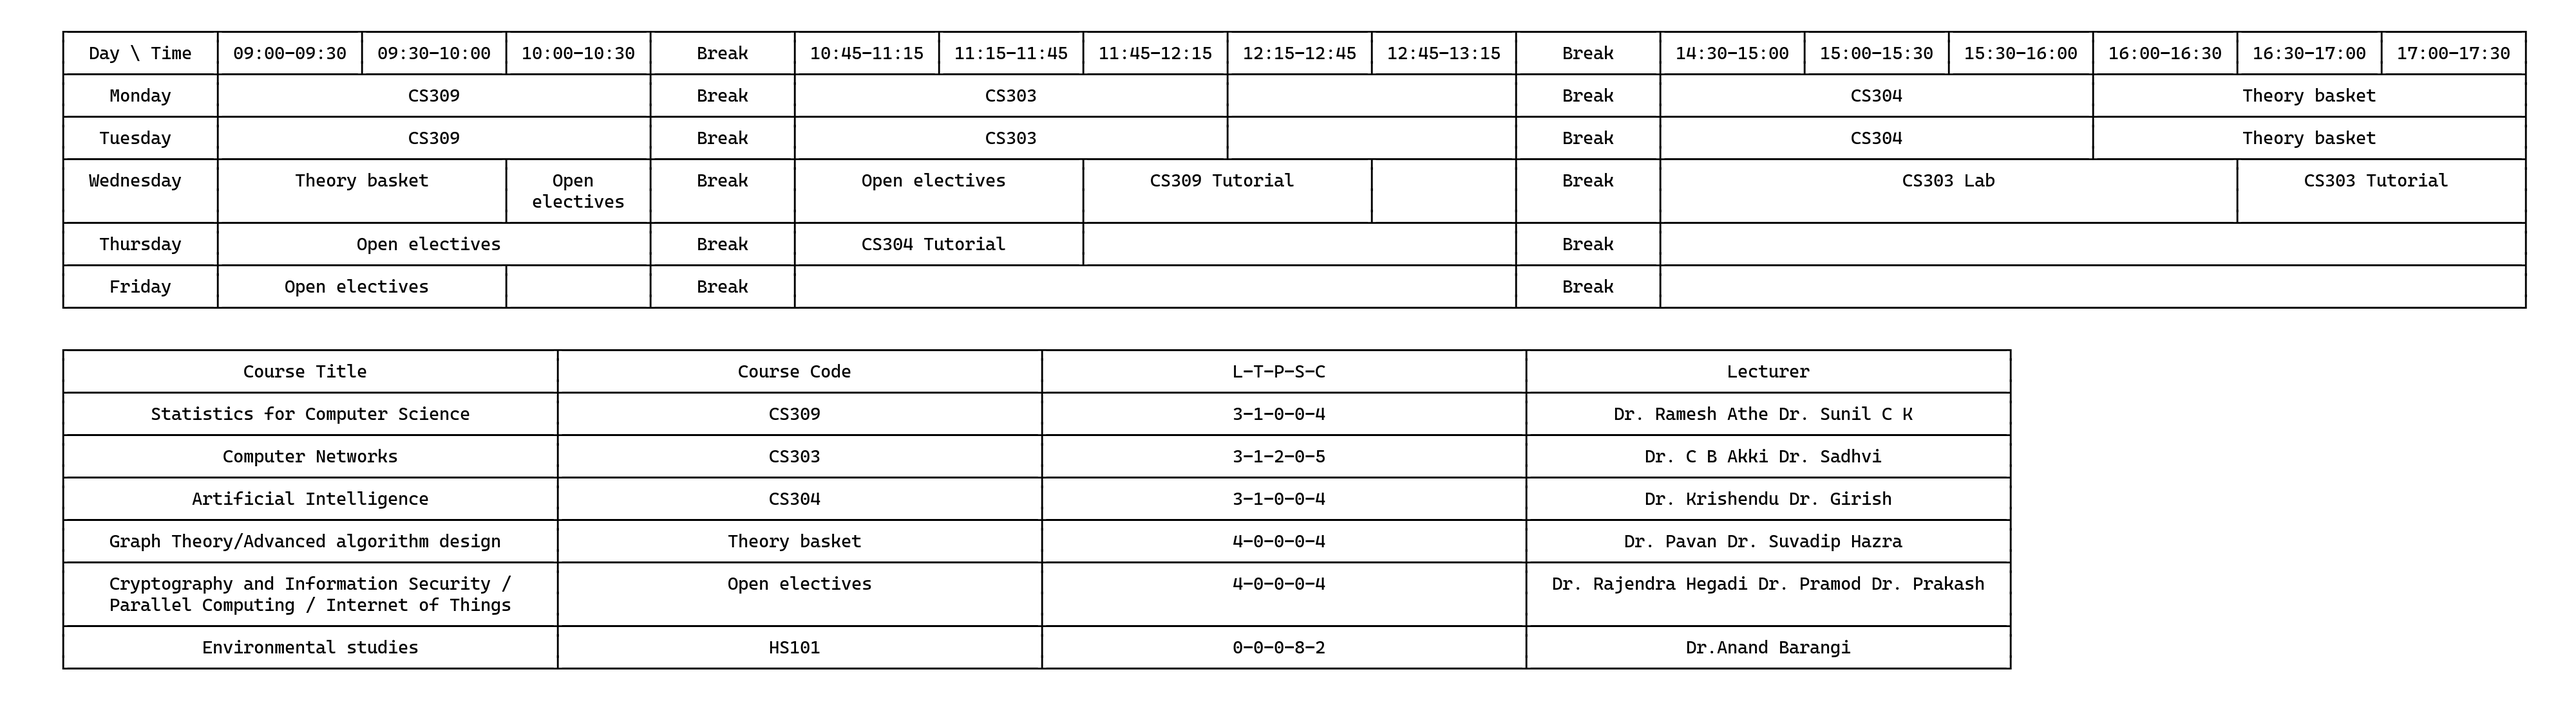
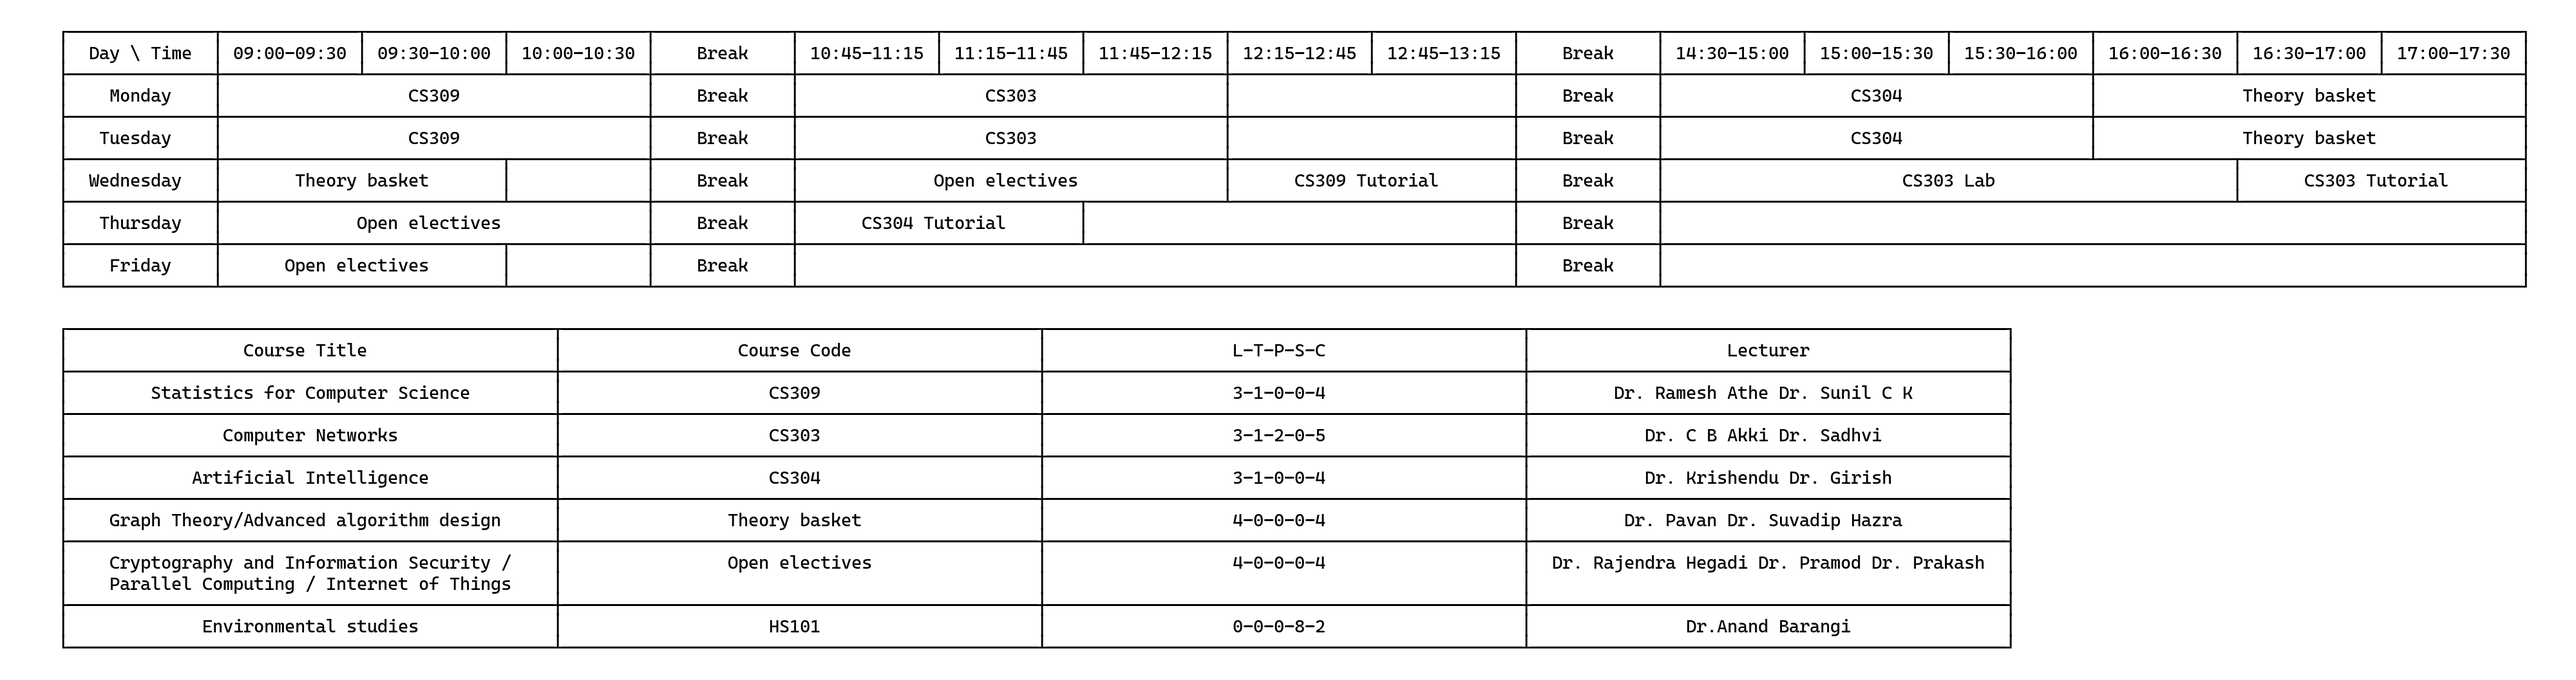
the code now checks for short breaks in main courses

Changed region(s): [[0.0312, 0.0312, 0.9688, 0.9678]]

diff --git a/src/main/java/timeTableSchedulinev2/TimeTable.java b/src/main/java/timeTableSchedulinev2/TimeTable.java
@@ -208,6 +208,8 @@ public class TimeTable {
                                 }
                         }
 
+                        if (j == 2 && !timeTable[count][i][j - 1].equals(c)) continue;
+
                         // To avoid breaks
                         if (j == 6 || j == 7) j = 8;
 
@@ -258,7 +260,7 @@ public class TimeTable {
                     if (searchDayForAnyOtherLecture(c, i, count)) continue;
 
                     for (int j = 0; j < 13 && t > 0; j++) {
-                    	if (j == 2 || j == 7) continue; // Avoid breaks
+                        if (j == 2 || j == 7) continue; // Avoid breaks
                         if (timeTable[count][i][j] == null && timeTable[count][i][j + 1] == null) {
                             timeTable[count][i][j]     = x;
                             timeTable[count][i][j + 1] = x;
